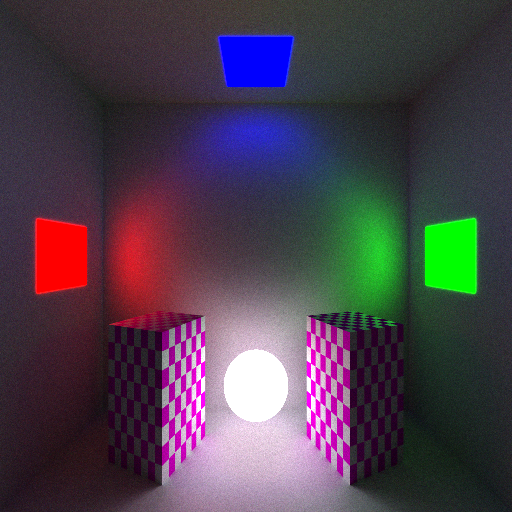
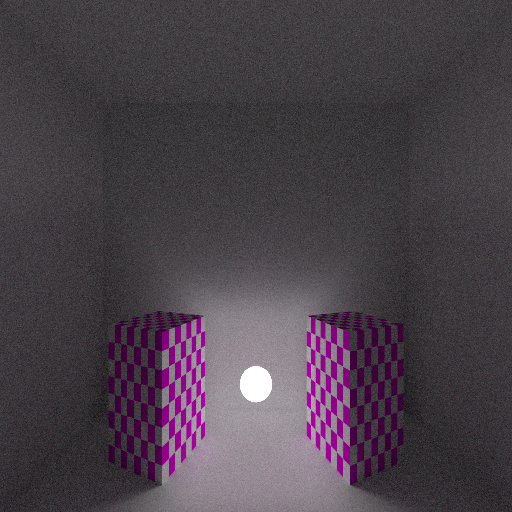
Mirror added.

diff --git a/examples/main.rs b/examples/main.rs
@@ -12,6 +12,7 @@ use render_mate::Vec3;
 fn main() {
     let mut scene = Scene::new();
 
+    let grey_texture = Texture::from("data/textures/white_texture.bmp");
     let white_texture = Texture::from("data/textures/white_texture.bmp");
     let red_texture = Texture::from("data/textures/red_texture.png");
     let green_texture = Texture::from("data/textures/green_texture.png");
@@ -22,52 +23,67 @@ fn main() {
     let sky_box = Mesh::new_cube(
         &white_texture,
         Mat4::new_translation(Vec3::new(0.0, 0.0, 0.0))*Mat4::new_scale(Vec3::new(3.0, 3.0, 3.0)),
-        0.0
+        0.0,
+        1.0,
     );
     scene.add_node(&sky_box);
 
     let light0 = Mesh::new_cube(
         &blue_texture,
         Mat4::new_translation(Vec3::new(0.0, 1.74, 1.0))*Mat4::new_scale(Vec3::new(0.5, 0.5, 0.5)),
-        5.0
+        5.0,
+        1.0,
     );
-    scene.add_node(&light0);
+    //scene.add_node(&light0);
 
     let light1 = Mesh::new_cube(
         &red_texture,
         Mat4::new_translation(Vec3::new(-1.74, 0.0, 1.0))*Mat4::new_scale(Vec3::new(0.5, 0.5, 0.5)),
-        5.0
+        5.0,
+        1.0,
     );
-    scene.add_node(&light1);
+    //scene.add_node(&light1);
 
     let light2 = Mesh::new_cube(
         &green_texture,
         Mat4::new_translation(Vec3::new(1.74, 0.0, 1.0))*Mat4::new_scale(Vec3::new(0.5, 0.5, 0.5)),
-        5.0
+        5.0,
+        1.0,
     );
-    scene.add_node(&light2);
+    //scene.add_node(&light2);
 
     let light3 = Sphere::new(
         Vec3::new(0.0, -1.0, 1.0),
-        0.25,
+        0.125,
         Color::new(1.0, 1.0, 1.0, 1.0),
-        3.0,
+        5.0,
+        1.0,
     );
     scene.add_node(&light3);
 
     let box0 = Mesh::new_cube(
         &null_texture,
         Mat4::new_translation(Vec3::new(-0.75, -1.0, 1.0))*Mat4::new_scale(Vec3::new(0.5, 1.0, 0.5))*Mat4::new_rotation_y(3.14/8.0),
-        0.0
+        0.0,
+        1.0,
     );
     scene.add_node(&box0);
 
     let box1 = Mesh::new_cube(
         &null_texture,
         Mat4::new_translation(Vec3::new(0.75, -1.0, 1.0))*Mat4::new_scale(Vec3::new(0.5, 1.0, 0.5))*Mat4::new_rotation_y(-3.14/8.0),
-        0.0
+        0.0,
+        1.0,
     );
     scene.add_node(&box1);
+
+    /*let mirror = Mesh::new_cube(
+        &null_texture,
+        Mat4::new_translation(Vec3::new(0.0, 0.0, 1.5))*Mat4::new_scale(Vec3::new(3.0, 3.0, 0.1)),
+        0.0,
+        0.0,
+    );
+    scene.add_node(&mirror);*/
 
     let framebuffer_extent = Extent::new(512, 512);
 

diff --git a/src/scene.rs b/src/scene.rs
@@ -63,20 +63,36 @@ impl<'a> Scene<'a> {
                     intersection.color*intersection.emission
                 }
                 else {
-                    let ray_direction = compute_random_hemisphere_point(&intersection.normal);
-                    let ray_origin = intersection.position;
-                    let next_ray = Ray {
-                        origin: ray_origin,
-                        direction: ray_direction,
-                        t_min: 0.00001,
-                        t_max: 10000.0,
-                    };
+                    if intersection.scatter > 0.5 {
+                        let ray_direction = compute_random_hemisphere_point(&intersection.normal);
+                        let ray_origin = intersection.position;
+                        let next_ray = Ray {
+                            origin: ray_origin,
+                            direction: ray_direction,
+                            t_min: 0.00001,
+                            t_max: 10000.0,
+                        };
 
-                    let p = 1.0/(3.14*2.0);
-                    let cos_theta = next_ray.direction.dot(intersection.normal);
-                    let brdf = intersection.color/3.14;
-                    let incoming = self.cast_ray(&next_ray, depth - 1);
-                    brdf * incoming * cos_theta / p
+                        let p = 1.0/(3.14*2.0);
+                        let cos_theta = next_ray.direction.dot(intersection.normal);
+                        let brdf = intersection.color/3.14;
+                        let incoming = self.cast_ray(&next_ray, depth - 1);
+                        brdf * incoming * cos_theta / p
+                    }
+                    else {
+                        let ray_direction = ray.direction.reflect(intersection.normal);
+                        let ray_origin = intersection.position;
+                        let next_ray = Ray {
+                            origin: ray_origin,
+                            direction: ray_direction,
+                            t_min: 0.00001,
+                            t_max: 10000.0,
+                        };
+
+                        
+                        let incoming = self.cast_ray(&next_ray, depth - 1);
+                        incoming * intersection.color
+                    }
                 }
             }
             else {

diff --git a/src/mat4.rs b/src/mat4.rs
@@ -24,16 +24,16 @@ impl Mat4 {
             (1.0, 0.0, 0.0, translation.x),
             (0.0, 1.0, 0.0, translation.y),
             (0.0, 0.0, 1.0, translation.z),
-            (0.0, 0.0, 0.0,           1.0),
+            (0.0, 0.0, 0.0, 1.0),
         )
     }
 
     pub fn new_scale(scale: Vec3) -> Mat4 {
         Mat4(
-            (scale.x, 0.0,     0.0,     0.0),
-            (0.0,     scale.y, 0.0,     0.0),
-            (0.0,     0.0,     scale.z, 0.0),
-            (0.0,     0.0,     0.0,     1.0),
+            (scale.x, 0.0, 0.0, 0.0),
+            (0.0, scale.y, 0.0, 0.0),
+            (0.0, 0.0, scale.z, 0.0),
+            (0.0, 0.0, 0.0, 1.0),
         )
     }
 
@@ -104,6 +104,33 @@ impl std::ops::Mul for Mat4 {
     }
 }
 
+impl std::ops::Mul<f32> for Mat4 {
+    type Output = Mat4;
+
+    fn mul(self, rhs: f32) -> Mat4 {
+        Mat4(
+            (self.0.0*rhs, self.0.1*rhs, self.0.2*rhs, self.0.3*rhs),
+            (self.1.0*rhs, self.1.1*rhs, self.1.2*rhs, self.1.3*rhs),
+            (self.2.0*rhs, self.2.1*rhs, self.2.2*rhs, self.2.3*rhs),
+            (self.3.0*rhs, self.3.1*rhs, self.3.2*rhs, self.3.3*rhs),
+        )
+    }
+}
+
+impl std::ops::Div<f32> for Mat4 {
+    type Output = Mat4;
+
+    fn div(self, rhs: f32) -> Mat4 {
+        let inv = 1.0/rhs;
+        Mat4(
+            (self.0.0*inv, self.0.1*inv, self.0.2*inv, self.0.3*inv),
+            (self.1.0*inv, self.1.1*inv, self.1.2*inv, self.1.3*inv),
+            (self.2.0*inv, self.2.1*inv, self.2.2*inv, self.2.3*inv),
+            (self.3.0*inv, self.3.1*inv, self.3.2*inv, self.3.3*inv),
+        )
+    }
+}
+
 impl std::ops::AddAssign for Mat4 {
     fn add_assign(&mut self, rhs: Mat4) {
         self.0.0 += rhs.0.0;
@@ -156,5 +183,21 @@ impl std::ops::Mul<Vec4> for Mat4 {
             self.2.0*rhs.x + self.2.1*rhs.y + self.2.2*rhs.z + self.2.3*rhs.w,
             self.3.0*rhs.x + self.3.1*rhs.y + self.3.2*rhs.z + self.3.3*rhs.w,
         )
+    }
+}
+
+impl std::ops::Mul<Mat4> for f32 {
+    type Output = Mat4;
+
+    fn mul(self, rhs: Mat4) -> Mat4 {
+        rhs*self
+    }
+}
+
+impl std::ops::Div<Mat4> for f32 {
+    type Output = Mat4;
+
+    fn div(self, rhs: Mat4) -> Mat4 {
+        rhs/self
     }
 }

diff --git a/src/mesh.rs b/src/mesh.rs
@@ -16,12 +16,13 @@ pub struct Mesh<'a> {
     faces: Vec<Face>,
     texture: &'a Texture,
     emission: f32,
+    scatter: f32,
     bounding_box: BoundingBox,
 
 }
 
 impl<'a> Mesh<'a> {
-    pub fn new_cube(texture: &'a Texture, transformation: Mat4, emission: f32) -> Mesh<'a> {
+    pub fn new_cube(texture: &'a Texture, transformation: Mat4, emission: f32, scatter: f32) -> Mesh<'a> {
         let mut vertices = vec![
             //------------------------------------------------------------
             Vertex::new(Vec3::new(-0.5, -0.5, -0.5), Vec2::new(0.0,  0.0), Vec3::new( 0.0,  0.0, -1.0)),
@@ -135,6 +136,7 @@ impl<'a> Mesh<'a> {
             faces,
             texture,
             emission,
+            scatter,
             bounding_box,
         }
 
@@ -180,6 +182,7 @@ impl<'a> Mesh<'a> {
             color: self.texture.sample(texture_coords),
             t,
             emission: self.emission,
+            scatter: self.scatter,
         })
     }
 }

diff --git a/src/framebuffer.rs b/src/framebuffer.rs
@@ -49,10 +49,15 @@ impl Framebuffer {
     }
 
     pub fn save(&self, path: &str) {
+        let gamma = 2.2;
         let mut image = image::RgbImage::new(self.extent.width, self.extent.height);
         for y in 0..self.extent.height {
             for x in 0..self.extent.width {
-                let color = self.get_pixel(x, y);
+                let mut color = self.get_pixel(x, y);
+                color.r = color.r.powf(1.0/gamma);
+                color.g = color.g.powf(1.0/gamma);
+                color.b = color.b.powf(1.0/gamma);
+
                 let r = (255.0*color.r).clamp(0.0, 255.0) as u8;
                 let g = (255.0*color.g).clamp(0.0, 255.0) as u8;
                 let b = (255.0*color.b).clamp(0.0, 255.0) as u8;

diff --git a/src/sphere.rs b/src/sphere.rs
@@ -9,15 +9,17 @@ pub struct Sphere {
     pub radius: f32,
     pub color: Color,
     pub emission: f32,
+    pub scatter: f32,
 }
 
 impl Sphere {
-    pub fn new(position: Vec3, radius: f32, color: Color, emission: f32) -> Sphere {
+    pub fn new(position: Vec3, radius: f32, color: Color, emission: f32, scatter: f32) -> Sphere {
         Sphere {
             position,
             radius,
             color,
             emission,
+            scatter,
         }
     }
 }
@@ -45,6 +47,7 @@ impl Node for Sphere {
             color: self.color,
             t,
             emission: self.emission,
+            scatter: self.scatter,
         })
     }
 }

diff --git a/src/vec3.rs b/src/vec3.rs
@@ -37,7 +37,7 @@ impl Vec3 {
 
     #[inline]
     pub fn reflect(self, n: Vec3) -> Vec3 {
-        self - n*2.0*n.dot(self)/n.len()
+        self - n*2.0*n.dot(self)  /n.len()
     }
 
     #[inline]

diff --git a/src/lib.rs b/src/lib.rs
@@ -26,6 +26,8 @@ mod point_light;
 pub use point_light::PointLight;
 mod ray;
 pub use ray::Ray;
+mod real;
+pub use real::Real;
 mod scene;
 pub use scene::Scene;
 mod sphere;

diff --git a/src/intersection.rs b/src/intersection.rs
@@ -8,4 +8,5 @@ pub struct Intersection {
     pub color: Color,
     pub t: f32,
     pub emission: f32,
+    pub scatter: f32,
 }

diff --git a/src/vec4.rs b/src/vec4.rs
@@ -1,3 +1,4 @@
+#[derive(Copy, Clone, Debug)]
 pub struct Vec4 {
     pub x: f32,
     pub y: f32,

diff --git a/src/real.rs b/src/real.rs
@@ -1,0 +1,1 @@
+pub type Real = f32;
